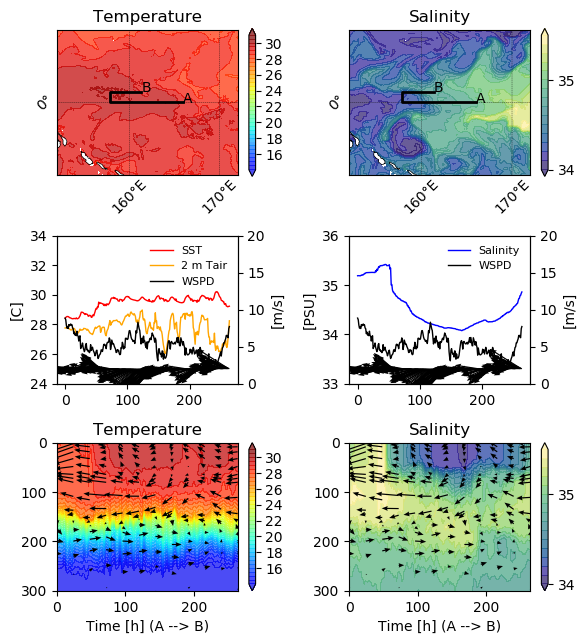
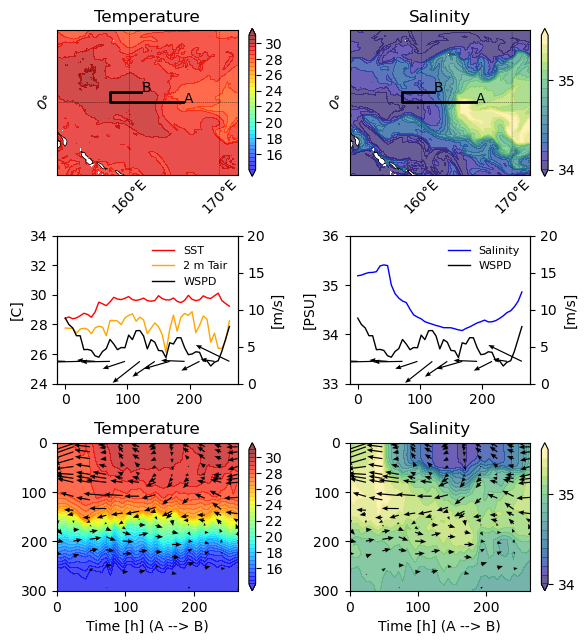
Updates.

diff --git a/examples/plot_transect.py b/examples/plot_transect.py
@@ -21,6 +21,10 @@ The data HYCOM data files can be downloaded from here:
 
 HYCOM DATA FILES FOR THIS EXAMPLE ARE ONLINE HERE:
 https://orca.atmos.washington.edu/~bkerns/code/awovispy/pyhycom/data/
+
+This script depends on the following Python modules:
+  - netCDF4.Dataset (for reading WRF)
+  - cmocean (for salinity color map)
 """
 
 def plot_map_background(plot_area = [-180, 180, -70, 70], ax = plt.gca()
@@ -117,10 +121,11 @@ def calc_trajectory(speed, duration_hours, direction_ccw_from_east
 ################################################################################
 
 ## !!!!!! Edit data paths with your system directories. !!!!!!
-dir = '/home/orca/bkerns/public_html/code/pyhycom/data'
+dir = './data'
 fn_maps = dir+'/archv.2018_091_00.a.gz'  ## Map has the initial time. "What you see before deploying"
 fn_grid = dir+'/regional.grid.a'
 plot_area = [152,172,-8,8]   # [lon1, lon2, lat1, lat2], lon is 0-360 for this HYCOM run.
+quiver_skip_x=4  ## Skip factor in x (e.g., time) direction for vector winds, currents.
 
 ## !!!!!! Initialize the trajectory you want. !!!!!!!
 """
@@ -207,8 +212,11 @@ ax333 = ax33.twinx()
 wspd = np.sqrt(np.power(G['U10'],2) + np.power(G['V10'],2))
 h3,=ax333.plot(time_hours, wspd, color='k', linewidth=1)
 scale = np.nanmean(wspd)
-ax333.quiver(time_hours, 2.0 + 0*time_hours, G['U10'], G['V10'], color='k'
-        , width=0.012, headwidth=4, scale=4*scale, units='inches')
+ax333.quiver(time_hours[::quiver_skip_x], 3.0 + 0*time_hours[::quiver_skip_x]
+        , G['U10'][::quiver_skip_x], G['V10'][::quiver_skip_x]
+        , color='k', width=0.012, headwidth=4, scale=4*scale, units='inches')
+
+
 ax333.set_ylim([0,20])
 ax333.set_ylabel('[m/s]')
 plt.legend([h1,h2,h3],['SST','2 m Tair','WSPD'],frameon=False, fontsize=8)
@@ -224,14 +232,13 @@ H3 = plt.contourf(time_hours2d, F['depth_middle_of_layer'],F['temp'], levels=lev
 
 u_plot = F['u-vel'].copy()
 v_plot = F['v-vel'].copy()
-for ii in range(0,12,2):
+for ii in range(0,12,2): ## Skip every other level for first 10 levels (in ML)
     u_plot[ii,:] = np.nan
     v_plot[ii,:] = np.nan
 
-skipt=4*6
-plt.quiver(time_hours2d[:,::skipt]
-    , F['depth_middle_of_layer'][:,::skipt]
-    ,u_plot[:,::skipt], v_plot[:,::skipt]
+plt.quiver(time_hours2d[:,::quiver_skip_x]
+    , F['depth_middle_of_layer'][:,::quiver_skip_x]
+    ,u_plot[:,::quiver_skip_x], v_plot[:,::quiver_skip_x]
     , width=0.012, headwidth=4, scale=4.0, units='inches')
 
 cbar = plt.colorbar(H3)
@@ -279,8 +286,9 @@ ax444 = ax44.twinx()
 wspd = np.sqrt(np.power(G['U10'],2) + np.power(G['V10'],2))
 h4,=ax444.plot(time_hours, wspd, color='k', linewidth=1)
 scale = np.nanmean(wspd)
-ax444.quiver(time_hours, 2.0 + 0*time_hours, G['U10'], G['V10'], color='k'
-        , width=0.012, headwidth=4, scale=4*scale, units='inches')
+ax444.quiver(time_hours[::quiver_skip_x], 3.0 + 0*time_hours[::quiver_skip_x]
+        , G['U10'][::quiver_skip_x], G['V10'][::quiver_skip_x]
+        , color='k', width=0.012, headwidth=4, scale=4*scale, units='inches')
 ax444.set_ylim([0,20])
 ax444.set_ylabel('[m/s]')
 plt.legend([h5,h4],['Salinity','WSPD'],frameon=False, fontsize=8)
@@ -296,14 +304,13 @@ H4 = plt.contourf(time_hours2d, F['depth_middle_of_layer'],F['salin'], levels=le
 
 u_plot = F['u-vel'].copy()
 v_plot = F['v-vel'].copy()
-for ii in range(0,12,2):
+for ii in range(0,12,2): ## Skip every other level for first 10 levels (in ML)
     u_plot[ii,:] = np.nan
     v_plot[ii,:] = np.nan
 
-skipt=4*6
-plt.quiver(time_hours2d[:,::skipt]
-    , F['depth_middle_of_layer'][:,::skipt]
-    ,u_plot[:,::skipt], v_plot[:,::skipt]
+plt.quiver(time_hours2d[:,::quiver_skip_x]
+    , F['depth_middle_of_layer'][:,::quiver_skip_x]
+    ,u_plot[:,::quiver_skip_x], v_plot[:,::quiver_skip_x]
     , width=0.012, headwidth=4, scale=4.0, units='inches')
 
 cbar= plt.colorbar(H4)
